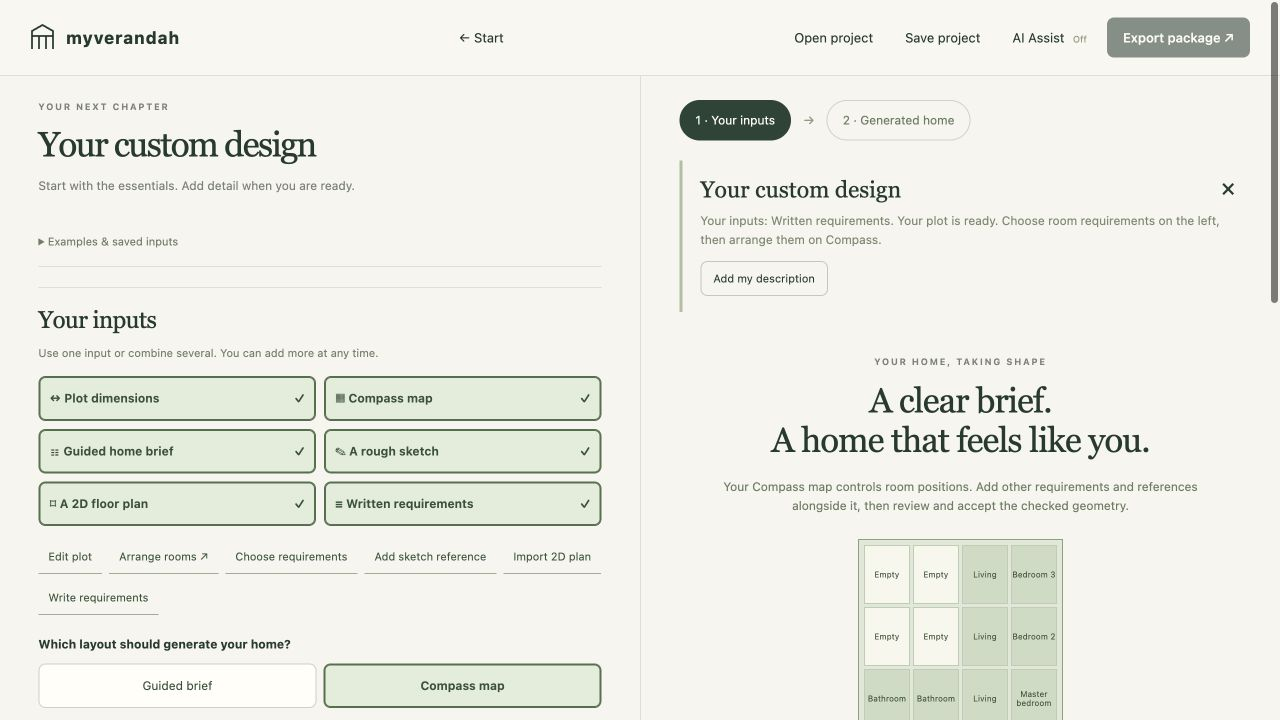
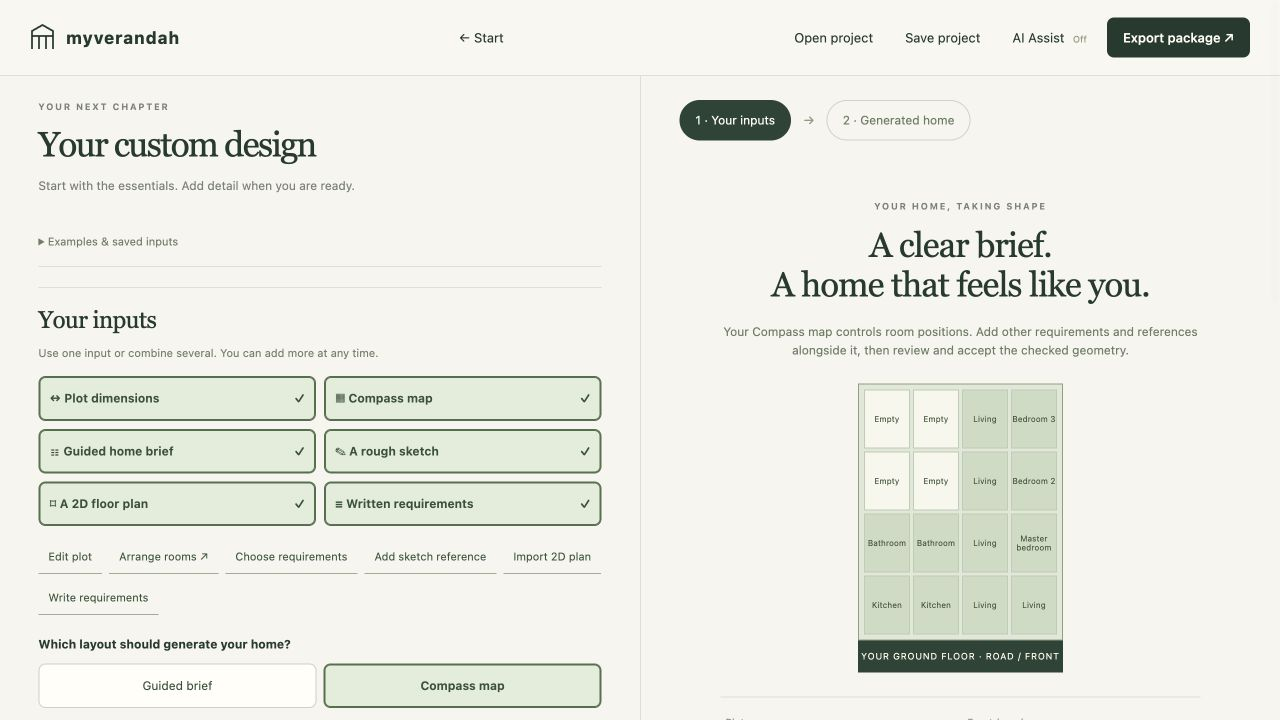
Keep input guidance aligned with the current project

diff --git a/web/app.js b/web/app.js
@@ -144,7 +144,7 @@ function renderThemes(){if(!session?.themes)return;for(let [kind,selected] of [[
 function previewTheme(kind,key){if((kind==='exterior'?exteriorThemeValue:interiorThemeValue)===key)return;if(!pendingThemeSnapshot)pendingThemeSnapshot={exterior:exteriorThemeValue,interior:interiorThemeValue};if(kind==='exterior')exteriorThemeValue=key;else interiorThemeValue=key;renderThemes();let ext=session.themes.exterior.find(x=>x.id===exteriorThemeValue),inside=session.themes.interior.find(x=>x.id===interiorThemeValue);$('theme-dialog-title').textContent=`Preview ${ext.label} + ${inside.label}`;$('theme-dialog-content').innerHTML=`<p>${esc(ext.description)}</p><p>${esc(inside.description)}</p><p class="notice">Apply keeps the interior room cells, stairs and furniture layout protected. Generate will update the shared scene, drawings and export package together.</p>`;$('theme-dialog').showModal();}
 function applyThemeSelection(){if(pendingThemeSnapshot){if(exteriorThemeValue!==pendingThemeSnapshot.exterior)explicitEdits.add('exterior_theme');if(interiorThemeValue!==pendingThemeSnapshot.interior)explicitEdits.add('interior_theme');}pendingThemeSnapshot=null;markDraftChanged();$('theme-dialog').close();status('Design language applied. Generate to preview the coordinated exterior.');}
 function revertThemeSelection(){if(pendingThemeSnapshot){exteriorThemeValue=pendingThemeSnapshot.exterior;interiorThemeValue=pendingThemeSnapshot.interior;}pendingThemeSnapshot=null;renderThemes();$('theme-dialog').close();status('Design language reverted.');}
-async function applyProject(p){const recovery=CompassState.restoreForAdapter(p,session.compass?.adapterVersion);p=recovery.project;guideLevelUndo=null;removedPlacements=null;$('reset-placements').textContent='Reset placements';let intent=await fetchJSON('/api/intent',p),autoSource=p.sources?.find(s=>s.id==='studio-auto-setbacks'),proposal=p.sources?.find(s=>s.id==='ai-proposal'&&s.enabled!==false),proposalChangesSetback=SETBACK_KEYS.some(key=>key in (proposal?.values||{})),legacyGrid=Boolean(p.grid&&p.grid.mode!=='spatial_hint');if(proposalChangesSetback&&autoSource){let oldForm=p.sources?.find(s=>s.id==='studio-field-edits'),fallback={...(oldForm?.values||{}),...(autoSource.values||{})},sources=(p.sources||[]).filter(s=>!['studio-field-edits','studio-auto-setbacks'].includes(s.id));if(Object.keys(fallback).length)sources.push({id:'studio-field-edits',kind:'form',enabled:true,values:fallback});p={...p,sources};autoSource=null;}currentProject=p;$('placements-used').checked=p.editorState?.usePlacements??Boolean(p.roomEdits?.length||p.furnitureLayout?.length);explicitEdits.clear();autoSetbacksExplicit=Boolean(autoSource)&&!proposalChangesSetback;$('setback-auto').checked=!proposalChangesSetback&&(Boolean(autoSource)||intent.provenance.front_mm.selected.every(id=>id.startsWith('derived')||id==='defaults'));setValues(intent.compassFullValues||intent.values);compassEditor?.load(p);$('compass-open').hidden=!session.compass?.enabled&&!p.editorState?.compassDraft&&!p.compass;$('description').value=p.text||p.sources?.find(s=>s.id==='unused-description')?.raw_text||'';$('text-used').checked=!p.sources?.some(s=>s.id==='unused-description');gridFloors=Array.from({length:3},(_,f)=>p.editorState?.guideFloors?.[f]?p.editorState.guideFloors[f].map(row=>row.slice()):spatialGridFrom(p.grid,f));gridFloor=0;gridRows=gridFloors[0];guideEdited=p.editorState?.guideEdited??false;planEditor?.load(p.customPlan||p.editorState?.customPlan,intent.values.storeys);roomBoard?.load(p.editorState?.roomBoard,p.editorState?.useRoomBoard||false);$('plan-mode').value=p.compass?'compass':p.customPlan?'custom':p.grid?'guide':p.editorState?.mode||'automatic';homeDesignUI?.load(p);draftRevision=Math.max(draftRevision,p.draftRevision||0);markDraftChanged();$('grid-used').checked=Boolean(p.grid)&&hasGridLabels();savedImages=(p.attachments||[]).map(x=>({...x}));renderReferences();renderSources();renderGrid();syncGridState();if(legacyGrid)$('grid-state').textContent='Legacy metric grid preserved for generation. Painting a guide switches this input to relative placement.';else if(p.grid&&!p.grid.floorIds&&p.grid.floors?.length===1&&intent.values.storeys>1)$('grid-state').textContent='Legacy whole-home guide preserved. Painting a floor converts it to floor-specific guidance.';compassEditor?.bindAcceptance(collect());if(recovery.reviewRequired)toast('Your saved Compass rooms are retained. Check and accept them again to use the updated room-type rules.',12000);homeDesignUI?.refresh();}
+async function applyProject(p){const recovery=CompassState.restoreForAdapter(p,session.compass?.adapterVersion);p=recovery.project;guideLevelUndo=null;removedPlacements=null;$('reset-placements').textContent='Reset placements';let intent=await fetchJSON('/api/intent',p),autoSource=p.sources?.find(s=>s.id==='studio-auto-setbacks'),proposal=p.sources?.find(s=>s.id==='ai-proposal'&&s.enabled!==false),proposalChangesSetback=SETBACK_KEYS.some(key=>key in (proposal?.values||{})),legacyGrid=Boolean(p.grid&&p.grid.mode!=='spatial_hint');if(proposalChangesSetback&&autoSource){let oldForm=p.sources?.find(s=>s.id==='studio-field-edits'),fallback={...(oldForm?.values||{}),...(autoSource.values||{})},sources=(p.sources||[]).filter(s=>!['studio-field-edits','studio-auto-setbacks'].includes(s.id));if(Object.keys(fallback).length)sources.push({id:'studio-field-edits',kind:'form',enabled:true,values:fallback});p={...p,sources};autoSource=null;}currentProject=p;$('journey-guide').hidden=true;$('placements-used').checked=p.editorState?.usePlacements??Boolean(p.roomEdits?.length||p.furnitureLayout?.length);explicitEdits.clear();autoSetbacksExplicit=Boolean(autoSource)&&!proposalChangesSetback;$('setback-auto').checked=!proposalChangesSetback&&(Boolean(autoSource)||intent.provenance.front_mm.selected.every(id=>id.startsWith('derived')||id==='defaults'));setValues(intent.compassFullValues||intent.values);compassEditor?.load(p);$('compass-open').hidden=!session.compass?.enabled&&!p.editorState?.compassDraft&&!p.compass;$('description').value=p.text||p.sources?.find(s=>s.id==='unused-description')?.raw_text||'';$('text-used').checked=!p.sources?.some(s=>s.id==='unused-description');gridFloors=Array.from({length:3},(_,f)=>p.editorState?.guideFloors?.[f]?p.editorState.guideFloors[f].map(row=>row.slice()):spatialGridFrom(p.grid,f));gridFloor=0;gridRows=gridFloors[0];guideEdited=p.editorState?.guideEdited??false;planEditor?.load(p.customPlan||p.editorState?.customPlan,intent.values.storeys);roomBoard?.load(p.editorState?.roomBoard,p.editorState?.useRoomBoard||false);$('plan-mode').value=p.compass?'compass':p.customPlan?'custom':p.grid?'guide':p.editorState?.mode||'automatic';homeDesignUI?.load(p);draftRevision=Math.max(draftRevision,p.draftRevision||0);markDraftChanged();$('grid-used').checked=Boolean(p.grid)&&hasGridLabels();savedImages=(p.attachments||[]).map(x=>({...x}));renderReferences();renderSources();renderGrid();syncGridState();if(legacyGrid)$('grid-state').textContent='Legacy metric grid preserved for generation. Painting a guide switches this input to relative placement.';else if(p.grid&&!p.grid.floorIds&&p.grid.floors?.length===1&&intent.values.storeys>1)$('grid-state').textContent='Legacy whole-home guide preserved. Painting a floor converts it to floor-specific guidance.';compassEditor?.bindAcceptance(collect());if(recovery.reviewRequired)toast('Your saved Compass rooms are retained. Check and accept them again to use the updated room-type rules.',12000);homeDesignUI?.refresh();}
 function renderSources(){$('loaded-sources').replaceChildren();for(let s of currentProject.sources||[]){if(['studio-field-edits','studio-auto-setbacks'].includes(s.id))continue;let lab=document.createElement('label');lab.className='check';let box=document.createElement('input');box.type='checkbox';box.checked=s.enabled!==false;box.onchange=async()=>{let next=collect(),source=next.sources?.find(x=>x.id===s.id);if(source)source.enabled=box.checked;try{await applyProject(next);status(`${s.id} ${box.checked?'enabled':'disabled'}. Review the resolved brief before generating.`);}catch(e){toast(formatError(e));}};lab.append(box,document.createTextNode(`${s.id} · ${s.kind}`));$('loaded-sources').append(lab);}}
 function coverageHTML(audit){return (audit?.entries||[]).map(e=>{const lines=[];if(e.message)lines.push(e.message);if(e.applied?.length)lines.push('Applied or confirmed: '+e.applied.join(', ').replaceAll('_',' '));for(const item of e.overridden||[])lines.push(`${item.field.replaceAll('_',' ')}: ${JSON.stringify(item.requested)} → ${JSON.stringify(item.resolved)} from ${item.by.join(', ')}`);if(e.authored?.length)lines.push('Controlled by rooms/openings in Custom Plan: '+e.authored.join(', ').replaceAll('_',' '));return `<p class="notice"><strong>${esc(e.source)} · ${esc(e.status)}</strong><br>${lines.map(esc).join('<br>')}</p>`;}).join('');}
 function renderCoverage(audit,label='Submitted draft'){

diff --git a/web/start-page.js b/web/start-page.js
@@ -67,7 +67,7 @@ class FloorForgeStartPage {
    await this.options.create({title:this.$('start-name').value.trim()||'My new home',...dimensions,storeys:Number(this.$('start-floors').value),bearing:Number(this.$('start-bearing').value),context:this.$('start-context').value,ai:this.ai,source:this.source,inputs});
    this.enter();this.$('journey-guide').hidden=false;
    this.$('journey-title').textContent='Your custom design';
-   const inputNames=FloorForgeHomeInputs.choices.filter(([id])=>inputs.includes(id)).map(([,title])=>title).join(', ');this.$('journey-copy').textContent='Your inputs: '+inputNames+'. '+(this.source==='dxf'?'Import your prepared drawing, then refine its exact rooms. Your other inputs can be added alongside it.':this.source==='sketch'?'Add your sketch as a reference, then arrange its rooms on Compass.':'Your plot is ready. Choose room requirements on the left, then arrange them on Compass.');
+   const inputNames=FloorForgeHomeInputs.choices.filter(([id])=>inputs.includes(id)).map(([,title])=>title).join(', ');this.$('journey-copy').textContent='Your inputs: '+inputNames+'. '+(this.source==='dxf'?'Import your prepared drawing, then refine its exact rooms. Your other inputs can be added alongside it.':this.source==='sketch'?'Add your sketch as a reference, then arrange its rooms on Compass.':this.source==='text'?'Write your requirements in Ideas, then review the fields we understood before generating.':this.source==='brief'?'Your plot is ready. Choose your home requirements, then review the resolved inputs before generating.':'Your plot is ready. Choose room requirements on the left, then arrange them on Compass.');
    this.$('journey-action').hidden=this.source==='compass';this.$('journey-action').textContent=this.source==='dxf'?'Import my 2D plan':this.source==='compass'?'Open Compass map':this.source==='sketch'?'Add my sketch':this.source==='text'?'Add my description':'Choose home requirements';
    if(this.source==='compass')this.$('compass-open').focus();else this.$('journey-action').focus();
   }catch(e){this.$('start-setup-status').textContent=e.message;}finally{button.disabled=false;}
